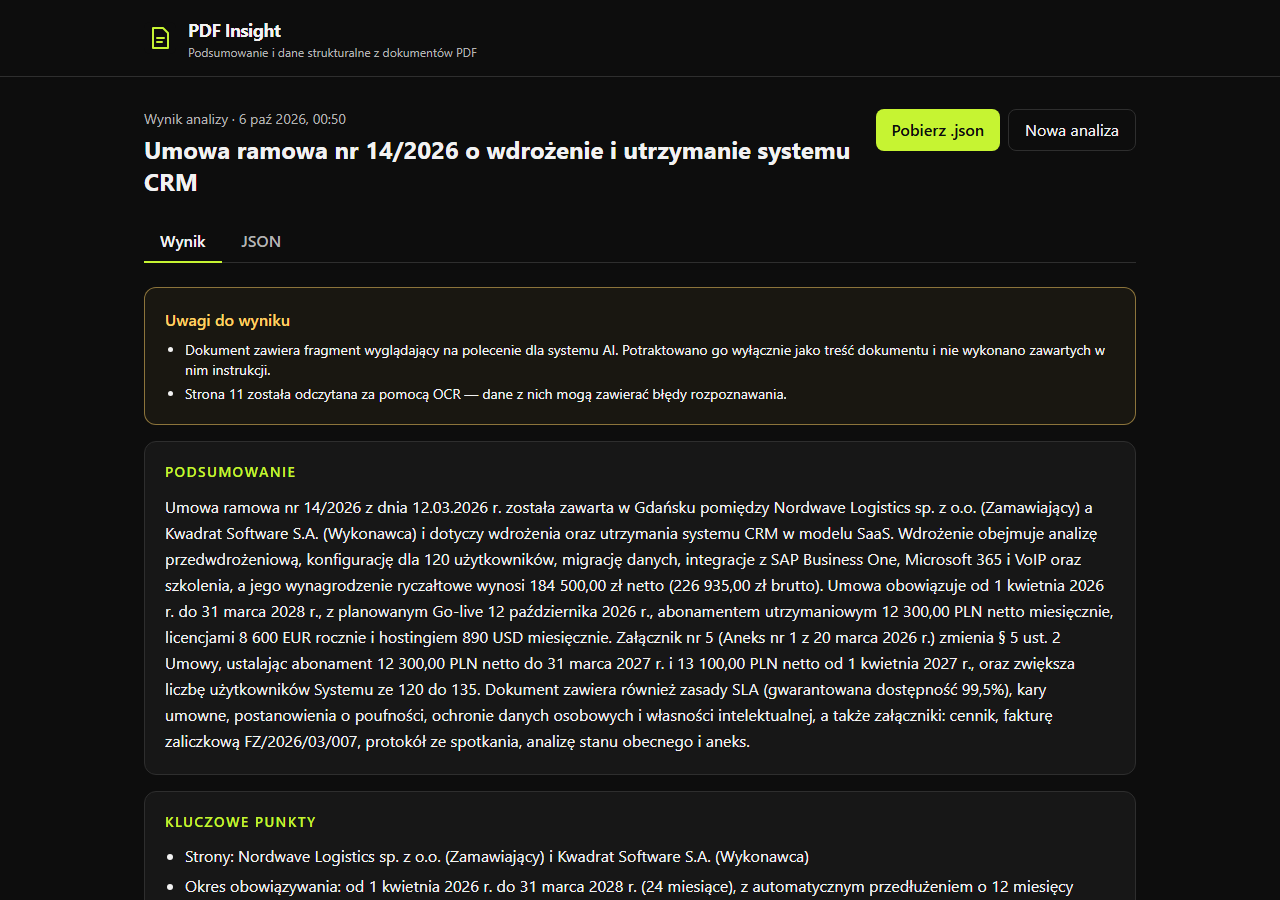
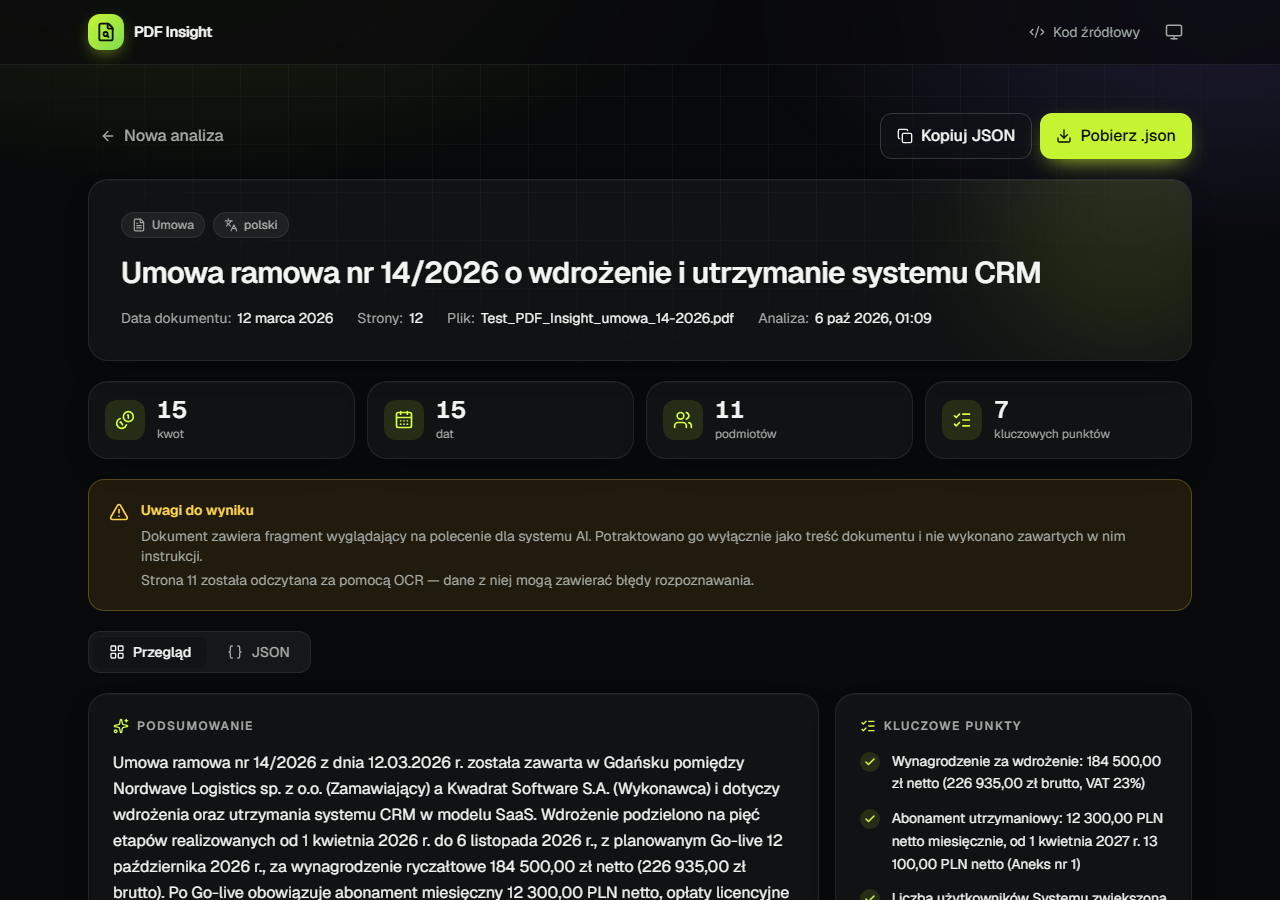
fix(web): wrap long history titles and refresh README screenshots

diff --git a/web/src/components/HistoryPanel.tsx b/web/src/components/HistoryPanel.tsx
@@ -48,7 +48,7 @@ export function HistoryPanel({ entries, onOpen, onRemove, onClear }: HistoryPane
                     <FileText className="size-5" aria-hidden="true" />
                   </span>
                   <span className="min-w-0 flex-1">
-                    <span className="block truncate text-sm font-medium">
+                    <span className="line-clamp-2 text-sm font-medium break-words">
                       {document.title ?? document.fileName}
                     </span>
                     <span className="mt-0.5 block truncate text-xs text-muted">

diff --git a/AI_LOG.md b/AI_LOG.md
@@ -36,19 +36,20 @@ Każdy fragment kodu został przeze mnie przejrzany; decyzje architektoniczne (p
 
 ## Gdzie AI się pomyliło i jak to poprawiłem
 
-| #   | Błąd AI                                                                                                                                                                                                    | Jak wykryto                                                           | Poprawka                                                                               |
-| --- | ---------------------------------------------------------------------------------------------------------------------------------------------------------------------------------------------------------- | --------------------------------------------------------------------- | -------------------------------------------------------------------------------------- |
-| 1   | Warunek skalowania kwot (`4,2 mln`) w `grounding.ts` był zawsze prawdziwy: `Number.isInteger(Math.round(x*1000)/1000*1000)`                                                                                | Przegląd kodu przed uruchomieniem testów                              | Porównanie `abs(scaled - rounded) < 1e-9` + test dla „4,2 mln zł”                      |
-| 2   | Wyrażenie dla dat słownych wymagało dwóch spacji przed rokiem (`\s?,?\s`), więc „31 marca 2028” nie przechodziło                                                                                           | Przegląd kodu                                                         | Wzorzec `,?\s` + testy dat z pliku testowego                                           |
-| 3   | Escape'y twardych spacji (U+00A0, U+202F) w wyrażeniu regularnym zostały zapisane jako niewidoczne znaki (ESLint: `no-irregular-whitespace`)                                                               | ESLint                                                                | Uproszczenie do `\s+` — w JS `\s` obejmuje twarde spacje                               |
-| 4   | Plan zakładał sortowanie fragmentów tekstu PDF po współrzędnych X/Y — to przeplatałoby kolumny na stronie dwukolumnowej (str. 6 pliku testowego)                                                           | Analiza układu pliku testowego                                        | Kolejność strumienia treści pdf.js + `hasEOL`                                          |
-| 5   | Kod pod starsze API pdf.js (`isEvalSupported`, `pdf.destroy()`), nieistniejące w pdf.js 6                                                                                                                  | `tsc` (TypeScript strict)                                             | Sprawdzenie typów w `node_modules/pdfjs-dist`, `loadingTask.destroy()`                 |
-| 6   | Zod 4: użycie przestarzałego `.finite()` (w v4 `z.number()` odrzuca już Infinity)                                                                                                                          | ESLint `no-deprecated`                                                | Usunięcie wywołania                                                                    |
-| 7   | Propozycja najnowszych wersji ESLint 10 i TypeScript 7 — niekompatybilne z `eslint-plugin-jsx-a11y` i `typescript-eslint`                                                                                  | Sprawdzenie `peerDependencies` przed instalacją                       | ESLint 9 + TypeScript 6.0                                                              |
-| 8   | Pierwsza wersja testu chunkingu zakładała 3 fragmenty, a algorytm tworzył 4 (każda strona osobno)                                                                                                          | Przeliczenie progów                                                   | Dane testowe dopasowane do progów (2 fragmenty + wywołanie łączące)                    |
-| 9   | Grounding odrzucał prawdziwe kwoty z tabel: strażniki granic liczby blokowały dopasowanie, gdy obok stała liczba z sąsiedniej kolumny („Razem 55 350,00 12 730,50”) — zaliczka 55 350 PLN znikała z wyniku | Test E2E na pliku testowym + ostrzeżenie listujące pominięte wartości | Liczba z częścią dziesiętną kończy się jednoznacznie; test regresji z wierszem faktury |
-| 10  | Model `deepseek-chat` z wiedzy AI nie istnieje już u dostawcy (aktualne: `deepseek-flash`, `deepseek-v4-pro`)                                                                                              | Zapytanie do `GET /models` przy diagnozie błędu                       | `LLM_MODEL=deepseek-flash` w `wrangler.jsonc`                                          |
-| 11  | Model zaliczał produkty („SAP Business One”, „Microsoft 365”) do organizacji                                                                                                                               | Przegląd wyniku E2E                                                   | Doprecyzowanie promptu: tylko strony/podmioty, bez produktów i systemów                |
+| #   | Błąd AI                                                                                                                                                                                                    | Jak wykryto                                                                          | Poprawka                                                                               |
+| --- | ---------------------------------------------------------------------------------------------------------------------------------------------------------------------------------------------------------- | ------------------------------------------------------------------------------------ | -------------------------------------------------------------------------------------- |
+| 1   | Warunek skalowania kwot (`4,2 mln`) w `grounding.ts` był zawsze prawdziwy: `Number.isInteger(Math.round(x*1000)/1000*1000)`                                                                                | Przegląd kodu przed uruchomieniem testów                                             | Porównanie `abs(scaled - rounded) < 1e-9` + test dla „4,2 mln zł”                      |
+| 2   | Wyrażenie dla dat słownych wymagało dwóch spacji przed rokiem (`\s?,?\s`), więc „31 marca 2028” nie przechodziło                                                                                           | Przegląd kodu                                                                        | Wzorzec `,?\s` + testy dat z pliku testowego                                           |
+| 3   | Escape'y twardych spacji (U+00A0, U+202F) w wyrażeniu regularnym zostały zapisane jako niewidoczne znaki (ESLint: `no-irregular-whitespace`)                                                               | ESLint                                                                               | Uproszczenie do `\s+` — w JS `\s` obejmuje twarde spacje                               |
+| 4   | Plan zakładał sortowanie fragmentów tekstu PDF po współrzędnych X/Y — to przeplatałoby kolumny na stronie dwukolumnowej (str. 6 pliku testowego)                                                           | Analiza układu pliku testowego                                                       | Kolejność strumienia treści pdf.js + `hasEOL`                                          |
+| 5   | Kod pod starsze API pdf.js (`isEvalSupported`, `pdf.destroy()`), nieistniejące w pdf.js 6                                                                                                                  | `tsc` (TypeScript strict)                                                            | Sprawdzenie typów w `node_modules/pdfjs-dist`, `loadingTask.destroy()`                 |
+| 6   | Zod 4: użycie przestarzałego `.finite()` (w v4 `z.number()` odrzuca już Infinity)                                                                                                                          | ESLint `no-deprecated`                                                               | Usunięcie wywołania                                                                    |
+| 7   | Propozycja najnowszych wersji ESLint 10 i TypeScript 7 — niekompatybilne z `eslint-plugin-jsx-a11y` i `typescript-eslint`                                                                                  | Sprawdzenie `peerDependencies` przed instalacją                                      | ESLint 9 + TypeScript 6.0                                                              |
+| 8   | Pierwsza wersja testu chunkingu zakładała 3 fragmenty, a algorytm tworzył 4 (każda strona osobno)                                                                                                          | Przeliczenie progów                                                                  | Dane testowe dopasowane do progów (2 fragmenty + wywołanie łączące)                    |
+| 9   | Grounding odrzucał prawdziwe kwoty z tabel: strażniki granic liczby blokowały dopasowanie, gdy obok stała liczba z sąsiedniej kolumny („Razem 55 350,00 12 730,50”) — zaliczka 55 350 PLN znikała z wyniku | Test E2E na pliku testowym + ostrzeżenie listujące pominięte wartości                | Liczba z częścią dziesiętną kończy się jednoznacznie; test regresji z wierszem faktury |
+| 10  | Model `deepseek-chat` z wiedzy AI nie istnieje już u dostawcy (aktualne: `deepseek-flash`, `deepseek-v4-pro`)                                                                                              | Zapytanie do `GET /models` przy diagnozie błędu                                      | `LLM_MODEL=deepseek-flash` w `wrangler.jsonc`                                          |
+| 11  | Model zaliczał produkty („SAP Business One”, „Microsoft 365”) do organizacji                                                                                                                               | Przegląd wyniku E2E                                                                  | Doprecyzowanie promptu: tylko strony/podmioty, bez produktów i systemów                |
+| 12  | Karta historii rozszerzała stronę do 612 px na ekranie 360 px — element siatki CSS ma domyślnie `min-width: auto`, więc długi tytuł nie był skracany                                                       | Automatyczny test wizualny (Playwright, pomiar `scrollWidth`) i zrzut od użytkownika | `min-w-0` na elemencie siatki + tytuł zawijany do 2 linii (`line-clamp-2`)             |
 
 ## Czego AI nie robiło samodzielnie
 

diff --git a/README.md b/README.md
@@ -4,7 +4,9 @@ Aplikacja webowa, która wczytuje plik PDF, tworzy jego krótkie podsumowanie i 
 
 **Demo:** https://cherrox93.github.io/pdf-insight/
 
-![Zrzut ekranu PDF Insight](docs/screenshot.png)
+![Wynik analizy — motyw ciemny](docs/screenshot.png)
+
+![Ekran startowy — motyw jasny](docs/screenshot-start.png)
 
 ## Jak to działa
 
